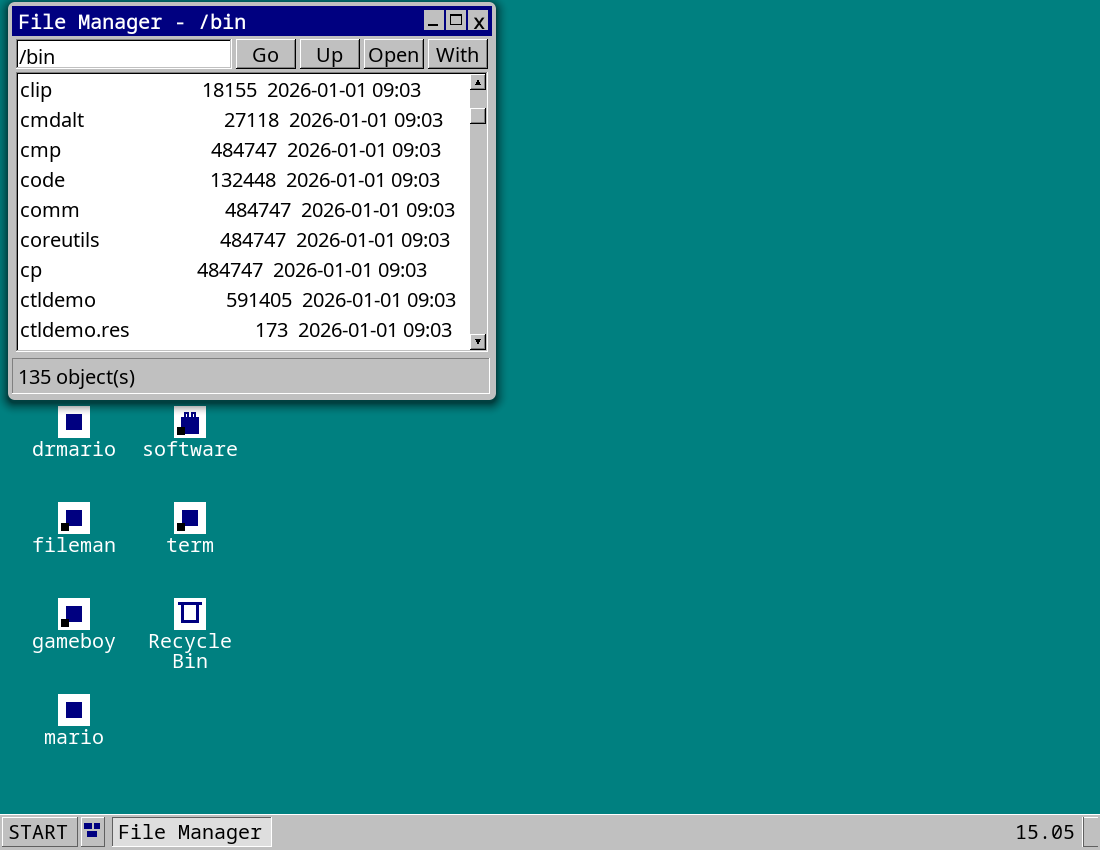
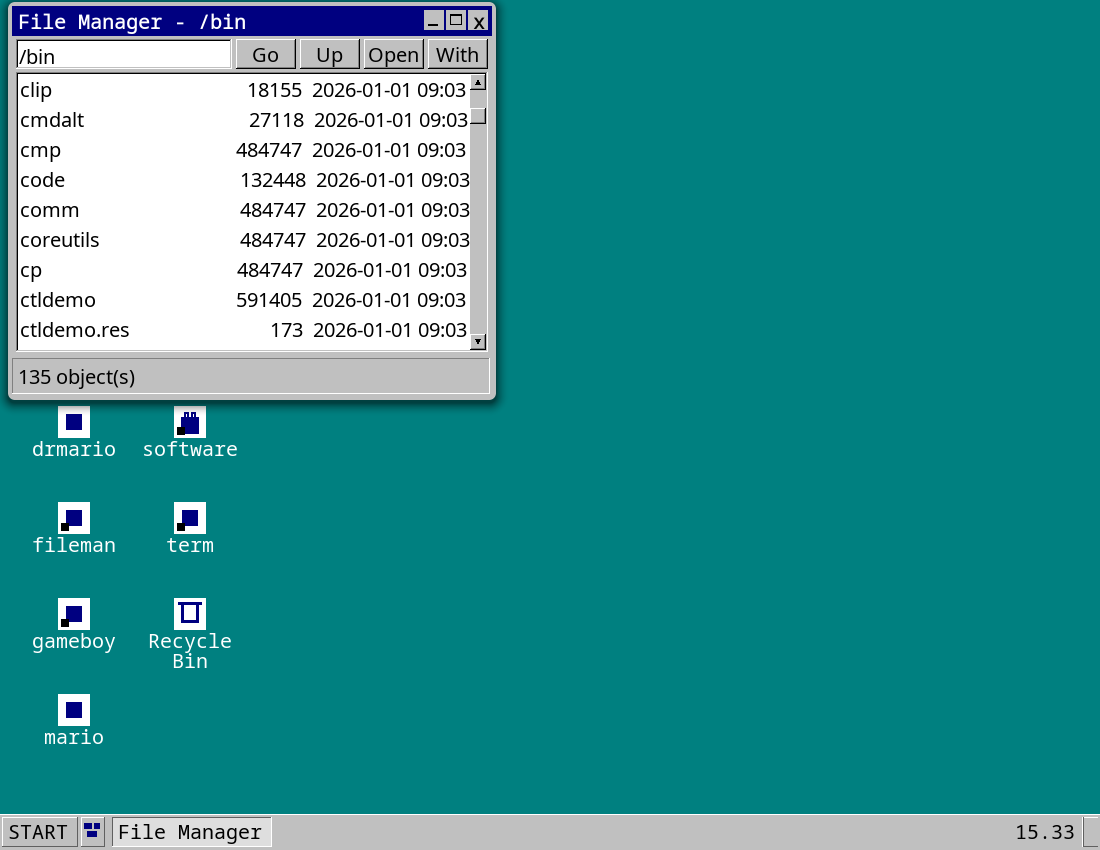
#317: pixel-fit fileman rows — the proportional font broke the char-column premise the bar exposed

Changed region(s): [[0.1855, 0.0918, 0.4327, 0.3976]]

diff --git a/os/win32/fileman.c b/os/win32/fileman.c
@@ -147,6 +147,9 @@ typedef ld_ent Ent;             /* the shared listing shape (os/listdir.h) */
 static Ent g_ents[512];
 static int g_nent;    /* entries actually snapshotted (<= 512) */
 static int g_ntotal;  /* the directory's true entry count (0255) */
+static int g_listerr; /* last list_dir failed (render shows the error row) */
+static int g_fitw = -1; /* listbox width the rows were pixel-fitted for
+                         * (#317); -1 = nothing rendered yet */
 
 static int entcmp(const void *a, const void *b) {
     const Ent *ea = (const Ent *)a, *eb = (const Ent *)b;
@@ -186,32 +189,102 @@ static void status_update(void) {
     SendMessage(g_status, SB_SETTEXT, 0, (LPARAM)s);
 }
 
-static void refill(void) {
-    SendMessage(g_list, LB_RESETCONTENT, 0, 0);
-    /* The walk is os/listdir.h's shared list_dir (CD34). Dotfiles hidden
-     * unless the View toggle is on (0093/0106 — the .recycle store must
-     * not clutter /root; Explorer-style). list_dir returns the TOTAL
-     * count (may exceed the 512-entry snapshot); a clipped listing gets
-     * an explicit trailing "(N more...)" row instead of silently reading
-     * as complete (0255). That row sits at index g_nent, past every
-     * `idx < g_nent` guard, so it is inert to selection/open/ops. */
-    int total = list_dir(g_cwd, g_ents, 512,
-                         LIST_FOLLOW_LINKS | (g_hidden ? 0u : LIST_HIDE_DOTFILES));
-    if (total < 0) {
-        SendMessage(g_list, LB_ADDSTRING, 0, (LPARAM)"(cannot open directory)");
-        g_nent = 0;
-        g_ntotal = 0;
-        status_update();
+/* ---- pixel-fitted rows (#317) ----
+ *
+ * The stock font is PROPORTIONAL (the C2 flag day), so a character-count
+ * layout ("%-28s %10s  %s" until #317) cannot bound the paint width — a
+ * row's pixel width grows with its name's LETTER count at a fixed
+ * character count, and a long name pushed the date tail under the
+ * WS_VSCROLL gutter. Rows are therefore laid out in PIXELS, measured
+ * with GetTextExtentPoint32 (the same stock font the control paints
+ * with; fileman never sends WM_SETFONT): the "size  date" tail is
+ * measured and right-flushed at the usable width by computed space
+ * padding (the stock digits are uniform-width, so the tails line up as
+ * real columns), and the name is elided ("...") to the pixels the tail
+ * leaves. The scrollbar gutter is ALWAYS reserved (the bar is
+ * show-when-needed) so the bound holds for any directory, any name
+ * length, any window width; fit_tail is the floor for degenerate
+ * widths. Proper column controls arrive with the #150 SysListView32
+ * migration. */
+
+static int row_budget(void) {
+    RECT r;
+    GetClientRect(g_list, &r);
+    /* Item text draws at x=4 inside the control's 2px right well edge
+     * (user32 lb WM_PAINT), less the reserved scrollbar gutter. */
+    return r.right - 4 - 2 - GetSystemMetrics(SM_CXVSCROLL);
+}
+
+/* Chop s from the end until it measures within budget (the elision floor
+ * — also the whole fit for the diagnostic rows). */
+static void fit_tail(HDC dc, int budget, char *s) {
+    SIZE sz;
+    size_t n = strlen(s);
+    while (n > 0 && GetTextExtentPoint32(dc, s, (int)n, &sz) && sz.cx > budget)
+        s[--n] = 0;
+}
+
+static void row_fit(HDC dc, int budget, char *out, size_t cap,
+                    const char *name, const char *sizef, const char *datef) {
+    char tail[48];
+    snprintf(tail, sizeof tail, "%s  %s", sizef, datef);
+    SIZE sz;
+    if (!dc || !GetTextExtentPoint32(dc, tail, (int)strlen(tail), &sz)) {
+        /* No measurement available (a dead DC): the pre-#317 fixed
+         * layout is the only shape left — unbounded, but never reached
+         * with a live control. */
+        snprintf(out, cap, "%-28s %s", name, tail);
         return;
     }
-    g_ntotal = total;
-    g_nent = total < 512 ? total : 512;
-    qsort(g_ents, (size_t)g_nent, sizeof g_ents[0], entcmp);
+    int tail_px = sz.cx;
+    int space_px = (GetTextExtentPoint32(dc, " ", 1, &sz) && sz.cx > 0)
+                       ? sz.cx : 6;
+    int name_budget = budget - tail_px - space_px;
+    char nb[268];
+    int full = (int)strlen(name), npx = 0;
+    for (int keep = full; ; keep--) {
+        if (keep == full) snprintf(nb, sizeof nb, "%s", name);
+        else snprintf(nb, sizeof nb, "%.*s...", keep, name);
+        npx = GetTextExtentPoint32(dc, nb, (int)strlen(nb), &sz) ? sz.cx : 0;
+        if (npx <= name_budget || keep == 0) break;
+    }
+    /* Right-flush the tail at the budget edge: floor() keeps the padded
+     * width <= budget whenever the name fit its share. */
+    int pad = (budget - npx - tail_px) / space_px;
+    if (pad < 1) pad = 1;
+    size_t n = strlen(nb), t = strlen(tail);
+    if ((size_t)pad > cap - 2 - n - t) pad = (int)(cap - 2 - n - t);
+    memcpy(out, nb, n);
+    for (int i = 0; i < pad; i++) out[n++] = ' ';
+    memcpy(out + n, tail, t + 1);
+    fit_tail(dc, budget, out);      /* degenerate-width floor */
+}
+
+/* Rebuild the LISTBOX rows from the g_ents snapshot at the CURRENT list
+ * width (no directory read — refill() owns that; relayout() re-renders on
+ * a width change). */
+static void render_rows(void) {
+    SendMessage(g_list, LB_RESETCONTENT, 0, 0);
+    RECT r;
+    GetClientRect(g_list, &r);
+    g_fitw = r.right;
+    HDC dc = GetDC(g_list);
+    int budget = row_budget();
+    if (g_listerr) {
+        char row[32];
+        snprintf(row, sizeof row, "(cannot open directory)");
+        fit_tail(dc, budget, row);
+        SendMessage(g_list, LB_ADDSTRING, 0, (LPARAM)row);
+        ReleaseDC(g_list, dc);
+        return;
+    }
     for (int i = 0; i < g_nent; i++) {
         /* Details columns off the same stat: a left name field, a
-         * right-aligned size (or <DIR>), then a fixed-width date. The
-         * mono font makes space-padding an honest column (LB_SETTABSTOPS-
-         * free, 0106). Agent readers key on the name prefix. */
+         * right-aligned size (or <DIR>), then the date — approximate
+         * columns under the proportional font, pixel-fitted per row
+         * (#317; the false "mono font makes space-padding an honest
+         * column" premise is retired). Agent readers key on the name
+         * prefix, which elision preserves. */
         char namef[264], sizef[16], datef[20];
         snprintf(namef, sizeof namef, "%s%s", g_ents[i].name,
                  g_ents[i].is_dir ? "/" : "");
@@ -225,15 +298,42 @@ static void refill(void) {
                      tm->tm_hour, tm->tm_min);
         else snprintf(datef, sizeof datef, "-");
         char row[320];
-        snprintf(row, sizeof row, "%-28s %10s  %s", namef, sizef, datef);
+        row_fit(dc, budget, row, sizeof row, namef, sizef, datef);
         SendMessage(g_list, LB_ADDSTRING, 0, (LPARAM)row);
     }
     if (g_ntotal > g_nent) {
         char row[64];
         snprintf(row, sizeof row, "(%d more entries not shown)",
                  g_ntotal - g_nent);
+        fit_tail(dc, budget, row);
         SendMessage(g_list, LB_ADDSTRING, 0, (LPARAM)row);
     }
+    ReleaseDC(g_list, dc);
+}
+
+static void refill(void) {
+    /* The walk is os/listdir.h's shared list_dir (CD34). Dotfiles hidden
+     * unless the View toggle is on (0093/0106 — the .recycle store must
+     * not clutter /root; Explorer-style). list_dir returns the TOTAL
+     * count (may exceed the 512-entry snapshot); a clipped listing gets
+     * an explicit trailing "(N more...)" row instead of silently reading
+     * as complete (0255). That row sits at index g_nent, past every
+     * `idx < g_nent` guard, so it is inert to selection/open/ops. */
+    int total = list_dir(g_cwd, g_ents, 512,
+                         LIST_FOLLOW_LINKS | (g_hidden ? 0u : LIST_HIDE_DOTFILES));
+    if (total < 0) {
+        g_listerr = 1;
+        g_nent = 0;
+        g_ntotal = 0;
+        render_rows();
+        status_update();
+        return;
+    }
+    g_listerr = 0;
+    g_ntotal = total;
+    g_nent = total < 512 ? total : 512;
+    qsort(g_ents, (size_t)g_nent, sizeof g_ents[0], entcmp);
+    render_rows();
     SetWindowText(g_path, g_cwd);
     char title[600];
     snprintf(title, sizeof title, "File Manager - %s", g_cwd);
@@ -285,6 +385,28 @@ static void refill_keep_selection(void) {
                 SendMessage(g_list, LB_SETSEL, 1, (LPARAM)j);
                 break;
             }
+}
+
+/* A list-width change re-fits every row (#317: the pixel bound is
+ * width-derived) — render only, no directory read; selection (by NAME,
+ * the 0123 rule) and the scroll position are carried across the rebuild. */
+static void rerender_keep_selection(void) {
+    char keep[64][264];
+    int nkeep = 0;
+    int idx[512];
+    int top = (int)SendMessage(g_list, LB_GETTOPINDEX, 0, 0);
+    int n = (int)SendMessage(g_list, LB_GETSELITEMS, 512, (LPARAM)idx);
+    for (int i = 0; i < n && nkeep < 64; i++)
+        if (idx[i] >= 0 && idx[i] < g_nent)
+            snprintf(keep[nkeep++], sizeof keep[0], "%s", g_ents[idx[i]].name);
+    render_rows();
+    for (int i = 0; i < nkeep; i++)
+        for (int j = 0; j < g_nent; j++)
+            if (!strcmp(keep[i], g_ents[j].name)) {
+                SendMessage(g_list, LB_SETSEL, 1, (LPARAM)j);
+                break;
+            }
+    SendMessage(g_list, LB_SETTOPINDEX, top, 0);
 }
 
 /* `record` distinguishes a user navigation (pushes history) from a Back
@@ -820,6 +942,13 @@ static void relayout(HWND h) {
     MoveWindow(g_open, w - 2 * BTN_W - 8, 3, BTN_W, TOP_H - 6, TRUE);
     MoveWindow(g_with, w - BTN_W - 4, 3, BTN_W, TOP_H - 6, TRUE);
     MoveWindow(g_list, 4, TOP_H, w - 8, hgt - TOP_H - 4 - sh, TRUE);
+    /* Rows are pixel-fitted to the list width (#317): a width change
+     * invalidates the fit, so re-render from the g_ents snapshot (g_fitw
+     * < 0 = nothing rendered yet — the WM_SIZE that precedes the first
+     * refill must not render an empty listing over nothing). */
+    RECT lr;
+    GetClientRect(g_list, &lr);
+    if (g_fitw >= 0 && lr.right != g_fitw) rerender_keep_selection();
 }
 
 static LRESULT CALLBACK wndproc(HWND h, UINT msg, WPARAM wp, LPARAM lp) {

diff --git a/logs/2026-07-31/317-fileman-vscroll.md b/logs/2026-07-31/317-fileman-vscroll.md
@@ -1,0 +1,59 @@
+# #317 — fileman: WS_VSCROLL on its listbox, and the latent layout bug it exposed
+
+**The flag.** #275 taught the LISTBOX control to draw and drive a real
+vertical scrollbar, but the bar is style-gated: `lb_sb()` in
+`os/win32/user32.c` requires `(h->style & WS_VSCROLL)` before it shows
+anything. fileman never asked for the style — its `g_list` creation had
+zero hits for `WS_VSCROLL` — so the control that learned to scroll was
+never told to have a bar. jku reported the missing bar and chose this
+follow-on over waiting for the #150/0372 SysListView32 migration.
+
+**The exposed bug: character columns under a proportional font.** The
+first evidence shots showed row text clipped by the bar's left edge
+(cairodemo's date lost its last glyph). Root cause was a FALSE premise in
+the row builder's comment: "The mono font makes space-padding an honest
+column". The stock font has been proportional since the C2 flag day, so
+the `"%-28s %10s  %s"` layout bounded row width in CHARACTERS while paint
+happens in PIXELS — a row's width grew with its name's letter count at a
+fixed character count, pushing the date tail under the gutter. The
+gutter didn't create the overflow; it just moved the clip edge inward
+enough to make it visible on /bin. (`%-28s` also never truncates, so a
+>28-char name always overflowed, scrollbar or not.)
+
+Character-count truncation cannot fix that (28 W's and 28 i's are
+different pixel widths), and the discriminator is glyph metrics, not
+length: in the interim character-budget version of the fix,
+`New Folder 2/` + `<DIR>` (13 chars, wide N/w/F/d glyphs) elided while
+the longer `Copy of dfile.txt` + `1` (17 chars, narrow f/i/l/t) fit.
+
+**The fix (fileman.c only): rows are laid out in pixels.** `row_fit`
+measures with `GetTextExtentPoint32` — the same stock font the control
+paints with; fileman never sends WM_SETFONT — composing each row as
+name + computed space padding + a right-flushed "size  date" tail at the
+usable width. The name is elided ("...") to the pixels the tail leaves;
+`fit_tail` chops the row tail as the floor for degenerate widths. The
+usable width always reserves the show-when-needed scrollbar gutter
+(`SM_CXVSCROLL`), so the bound holds for any directory, any filename
+length, any window width — by measurement, not by coincidence of /bin.
+A side benefit: the stock digits are uniform-width, so the right-flushed
+tails render as genuinely straight size/date columns for the first time.
+`render_rows` (the LB rebuild from the `g_ents` snapshot) is now
+separate from `refill` (the directory read), and `relayout` re-renders
+on a list-width change with selection carried by name (the 0123 rule)
+plus the scroll position. The false comment is retired; proper column
+controls arrive with #150.
+
+**Did relayout() need a change?** The control-placement math: no — the
+#275 bar draws inside the control over a reserved gutter (clip, row
+rects, and hit-testing all subtract it in user32). But the ROW CONTENT
+is width-dependent now, so relayout gained the re-render hook; "the
+layout" in the wider sense did need one, and the first shots are why.
+
+**Evidence** (`tools/os-drive-scripts/fileman-vscroll-shots.mjs`, real
+browser boot, shots in `logs/2026-07-31/0317-fileman-vscroll/`):
+`fileman /bin` (135 objects vs ~9 visible rows) shows the bar with a
+proportional thumb; ten down-arrow clicks scroll ten rows with the thumb
+tracking; a 300px resize elides names per their measured widths while
+the size/date column stays intact and clear of the bar.
+
+Image bumped 205 → 206 (shipped-behaviour change; #312 deployed 205).
